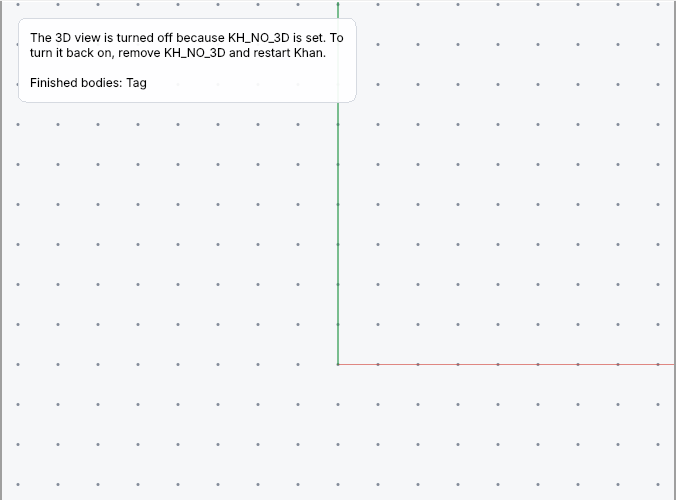
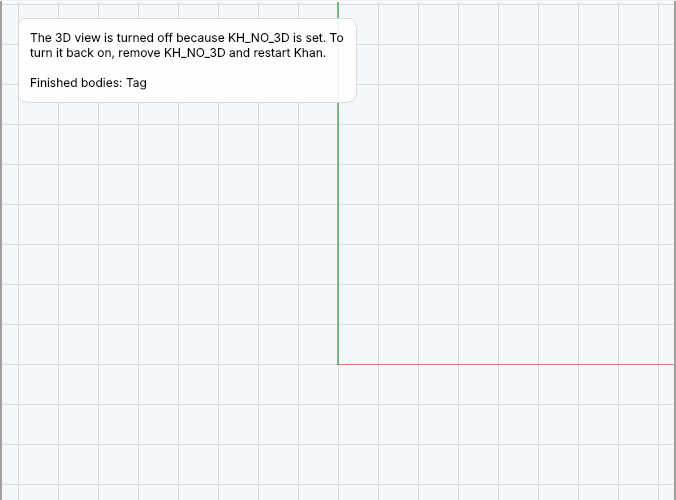
Make grid lines the default instead of dots
The grid now starts as lines, 10 mm apart. A saved "dots" setting is kept;
anything else (or nothing saved) gives lines. Lines comes first in
View > Grid style. Guide text and pictures updated.

Claude-Session: https://claude.ai/code/session_01Lv5cQUVbfQ1HjNSJ67C2eP

diff --git a/tests/app/test_shell.cpp b/tests/app/test_shell.cpp
@@ -246,42 +246,42 @@ TEST_CASE("named layouts save and open", "[app]") {
     CHECK(app.shell->lastProblems()[0].code == "layout.bad");
 }
 
-TEST_CASE("the grid starts on, with dots and no snapping", "[app][grid]") {
+TEST_CASE("the grid starts on, with lines and no snapping", "[app][grid]") {
     App app;
     const auto& g = app.grid.settings();
     CHECK(g.visible);
-    CHECK(g.style == plugin::GridStyle::Dots);
+    CHECK(g.style == plugin::GridStyle::Lines);
     CHECK_FALSE(g.snap);
     CHECK(g.spacing == 10.0);
     CHECK(app.menu("kh.shell.grid.show")->isChecked());
-    CHECK(app.menu("kh.shell.grid.dots")->isChecked());
+    CHECK(app.menu("kh.shell.grid.lines")->isChecked());
     CHECK_FALSE(app.menu("kh.shell.grid.snap")->isChecked());
     CHECK(app.menu("kh.shell.grid.spacing.10")->isChecked());
     CHECK(app.shell->findChild<QLabel*>(QStringLiteral("kh.shell.gridstatus"))->text() ==
-          QStringLiteral("Grid 10 mm, dots, snap off"));
+          QStringLiteral("Grid 10 mm, lines, snap off"));
     auto* view = app.flat();  // no screen in the tests, so the viewer draws flat
     REQUIRE(view);
     CHECK(view->grid().visible);
     CHECK(view->grid().spacing == 10.0);
-    CHECK_FALSE(view->grid().lines);
+    CHECK(view->grid().lines);
 }
 
 TEST_CASE("the View menu changes the grid, and Khan remembers it", "[app][grid]") {
     App app;
-    app.menu("kh.shell.grid.lines")->trigger();
+    app.menu("kh.shell.grid.dots")->trigger();
     app.menu("kh.shell.grid.snap")->trigger();
     app.menu("kh.shell.grid.spacing.5")->trigger();
     app.menu("kh.shell.grid.show")->trigger();  // off
     settle();
     const auto& g = app.grid.settings();
-    CHECK(g.style == plugin::GridStyle::Lines);
+    CHECK(g.style == plugin::GridStyle::Dots);
     CHECK(g.snap);
     CHECK(g.spacing == 5.0);
     CHECK_FALSE(g.visible);
     CHECK(app.shell->findChild<QLabel*>(QStringLiteral("kh.shell.gridstatus"))->text() ==
           QStringLiteral("Grid off, snap on"));
     CHECK_FALSE(app.flat()->grid().visible);  // the viewer follows the grid
-    CHECK(app.flat()->grid().lines);
+    CHECK_FALSE(app.flat()->grid().lines);
     CHECK(app.flat()->grid().spacing == 5.0);
 
     // Next time Khan starts, the grid is as it was left.
@@ -289,7 +289,7 @@ TEST_CASE("the View menu changes the grid, and Khan remembers it", "[app][grid]"
     app.grid.set(plugin::GridSettings{});
     app.open();
     CHECK(app.grid.settings() == g);
-    CHECK(app.menu("kh.shell.grid.lines")->isChecked());
+    CHECK(app.menu("kh.shell.grid.dots")->isChecked());
     CHECK(app.menu("kh.shell.grid.spacing.5")->isChecked());
 }
 

diff --git a/apps/kh_app/Shell.cpp b/apps/kh_app/Shell.cpp
@@ -103,15 +103,15 @@ Shell::Shell(plugin::PluginHost& host, AppUi& ui, plugin::Grid& grid, QSettings&
     gridLabel_->setObjectName(QStringLiteral("kh.shell.gridstatus"));
     statusBar()->addPermanentWidget(gridLabel_);
 
-    // The grid as the student left it last time (defaults: shown, 10 mm, no snapping, dots).
+    // The grid as the student left it last time (defaults: shown, 10 mm, no snapping, lines).
     {
         plugin::GridSettings g = grid_.settings();
         g.visible = settings_.value(QStringLiteral("grid/visible"), g.visible).toBool();
         g.spacing = settings_.value(QStringLiteral("grid/spacing"), g.spacing).toDouble();
         g.snap = settings_.value(QStringLiteral("grid/snap"), g.snap).toBool();
-        g.style = settings_.value(QStringLiteral("grid/style")).toString() == QStringLiteral("lines")
-                      ? plugin::GridStyle::Lines
-                      : plugin::GridStyle::Dots;
+        g.style = settings_.value(QStringLiteral("grid/style")).toString() == QStringLiteral("dots")
+                      ? plugin::GridStyle::Dots
+                      : plugin::GridStyle::Lines;
         grid_.set(g);  // a damaged spacing is refused and the default kept
     }
     const auto v = kh::version();
@@ -346,9 +346,9 @@ void Shell::buildViewMenu() {
 
     auto* style = viewMenu_->addMenu(tr("Grid style"));
     auto* styles = new QActionGroup(style);
-    auto* dots = named(style->addAction(tr("Dots")), "kh.shell.grid.dots");
     auto* lines = named(style->addAction(tr("Lines")), "kh.shell.grid.lines");
-    for (auto* a : {dots, lines}) {
+    auto* dots = named(style->addAction(tr("Dots")), "kh.shell.grid.dots");
+    for (auto* a : {lines, dots}) {
         a->setCheckable(true);
         styles->addAction(a);
     }

diff --git a/src/plugin/include/kh/plugin/Grid.h b/src/plugin/include/kh/plugin/Grid.h
@@ -13,8 +13,8 @@ namespace kh::plugin {
 
 /// How the grid is drawn.
 enum class GridStyle {
-    Dots,   ///< A dot at every crossing (the default): light, and the model stays easy to see.
-    Lines,  ///< Full lines, like graph paper.
+    Dots,   ///< A dot at every crossing: light, and the model stays easy to see.
+    Lines,  ///< Full lines, like graph paper (the default).
 };
 
 /// Everything about the grid the student can change.
@@ -22,7 +22,7 @@ struct GridSettings {
     bool visible = true;                ///< Drawn in the views.
     double spacing = 10.0;              ///< Distance between grid lines, in mm.
     bool snap = false;                  ///< Points picked with the mouse jump to the nearest grid crossing.
-    GridStyle style = GridStyle::Dots;  ///< Dots or lines.
+    GridStyle style = GridStyle::Lines;  ///< Lines or dots.
 
     /// Compares two settings.
     /// @param other The settings to compare with.
@@ -57,7 +57,7 @@ public:
     /// The largest spacing allowed, in mm.
     static constexpr double kMaxSpacing = 1000.0;
 
-    /// Makes a grid with the default settings: shown, 10 mm, no snapping, dots.
+    /// Makes a grid with the default settings: shown, 10 mm, no snapping, lines.
     /// @param bus Where GridChanged is sent. Must outlive the grid.
     explicit Grid(EventBus& bus) : bus_(bus) {}
 

diff --git a/tests/plugin/test_grid.cpp b/tests/plugin/test_grid.cpp
@@ -9,13 +9,13 @@
 using namespace kh;
 using namespace kh::plugin;
 
-TEST_CASE("the grid starts shown, 10 mm, no snapping, dots", "[plugin][grid]") {
+TEST_CASE("the grid starts shown, 10 mm, no snapping, lines", "[plugin][grid]") {
     EventBus bus;
     Grid grid(bus);
     CHECK(grid.settings().visible);
     CHECK(grid.settings().spacing == 10.0);
     CHECK_FALSE(grid.settings().snap);
-    CHECK(grid.settings().style == GridStyle::Dots);
+    CHECK(grid.settings().style == GridStyle::Lines);
 }
 
 TEST_CASE("each change tells listeners once", "[plugin][grid]") {
@@ -24,14 +24,14 @@ TEST_CASE("each change tells listeners once", "[plugin][grid]") {
     std::vector<GridSettings> heard;
     auto sub = bus.subscribe<GridChanged>([&](const GridChanged& e) { heard.push_back(e.grid); });
 
-    grid.setStyle(GridStyle::Lines);
-    grid.setStyle(GridStyle::Lines);  // no change, no event
+    grid.setStyle(GridStyle::Dots);
+    grid.setStyle(GridStyle::Dots);  // no change, no event
     grid.setSnap(true);
     grid.setVisible(false);
     REQUIRE(grid.setSpacing(2.5).empty());
     REQUIRE(heard.size() == 4);
     CHECK(heard.back().spacing == 2.5);
-    CHECK(heard.back().style == GridStyle::Lines);
+    CHECK(heard.back().style == GridStyle::Dots);
     CHECK(heard.back().snap);
     CHECK_FALSE(heard.back().visible);
 }

diff --git a/src/view/include/kh/view/Scene.h b/src/view/include/kh/view/Scene.h
@@ -27,7 +27,7 @@ struct SceneContent {
 struct ViewGrid {
     bool visible = true;  ///< Draw it at all.
     double spacing = 10;  ///< Distance between grid lines, in mm.
-    bool lines = false;   ///< Lines instead of dots.
+    bool lines = true;    ///< Lines, or dots when false.
 };
 
 /// How much of the grid to draw.

diff --git a/docs/user-guide/desktop-app.md b/docs/user-guide/desktop-app.md
@@ -142,22 +142,22 @@ When a step doesn't build, Properties says why in red, and how to fix it:
 
 The grid is a pattern of dots or lines on the ground (the x-y plane) that helps
 you judge sizes and line things up. It starts **on**, every **10 mm**, drawn as
-**dots**, with **snapping off**. Change it in the **View** menu:
+**lines**, with **snapping off**. Change it in the **View** menu:
 
 | Menu item | Keys | What it does |
 | --- | --- | --- |
 | View > Show grid | Ctrl+G | Shows or hides the grid |
 | View > Snap to grid | Ctrl+Shift+G | Points you pick with the mouse jump to the nearest grid crossing |
-| View > Grid style > Dots or Lines | | Dots are light and keep your part easy to see; lines look like graph paper |
+| View > Grid style > Lines or Dots | | Lines look like graph paper; dots are lighter and keep your part easy to see |
 | View > Grid spacing | | 1, 2, 5, 10, 20 or 50 mm, or **Other...** for any size from 0.01 mm to 1000 mm |
 
-| Dots, 10 mm (the start) | Lines, 5 mm |
+| Lines, 10 mm (the start) | Dots, 5 mm |
 | --- | --- |
-| ![The grid as dots, 10 mm apart](images/app-grid-dots.png) | ![The grid as lines, 5 mm apart](images/app-grid-lines.png) |
+| ![The grid as lines, 10 mm apart](images/app-grid-lines.png) | ![The grid as dots, 5 mm apart](images/app-grid-dots.png) |
 
 The short coloured lines at the origin (0, 0, 0) are the axes: red is x, green
 is y and blue is z. The status bar (7 in the picture at the top) always shows the
-grid's settings, like "Grid 10 mm, dots, snap off". Khan remembers your grid
+grid's settings, like "Grid 10 mm, lines, snap off". Khan remembers your grid
 settings for next time.
 
 - **How far the grid reaches:** 50 lines each way from the origin (500 mm with
